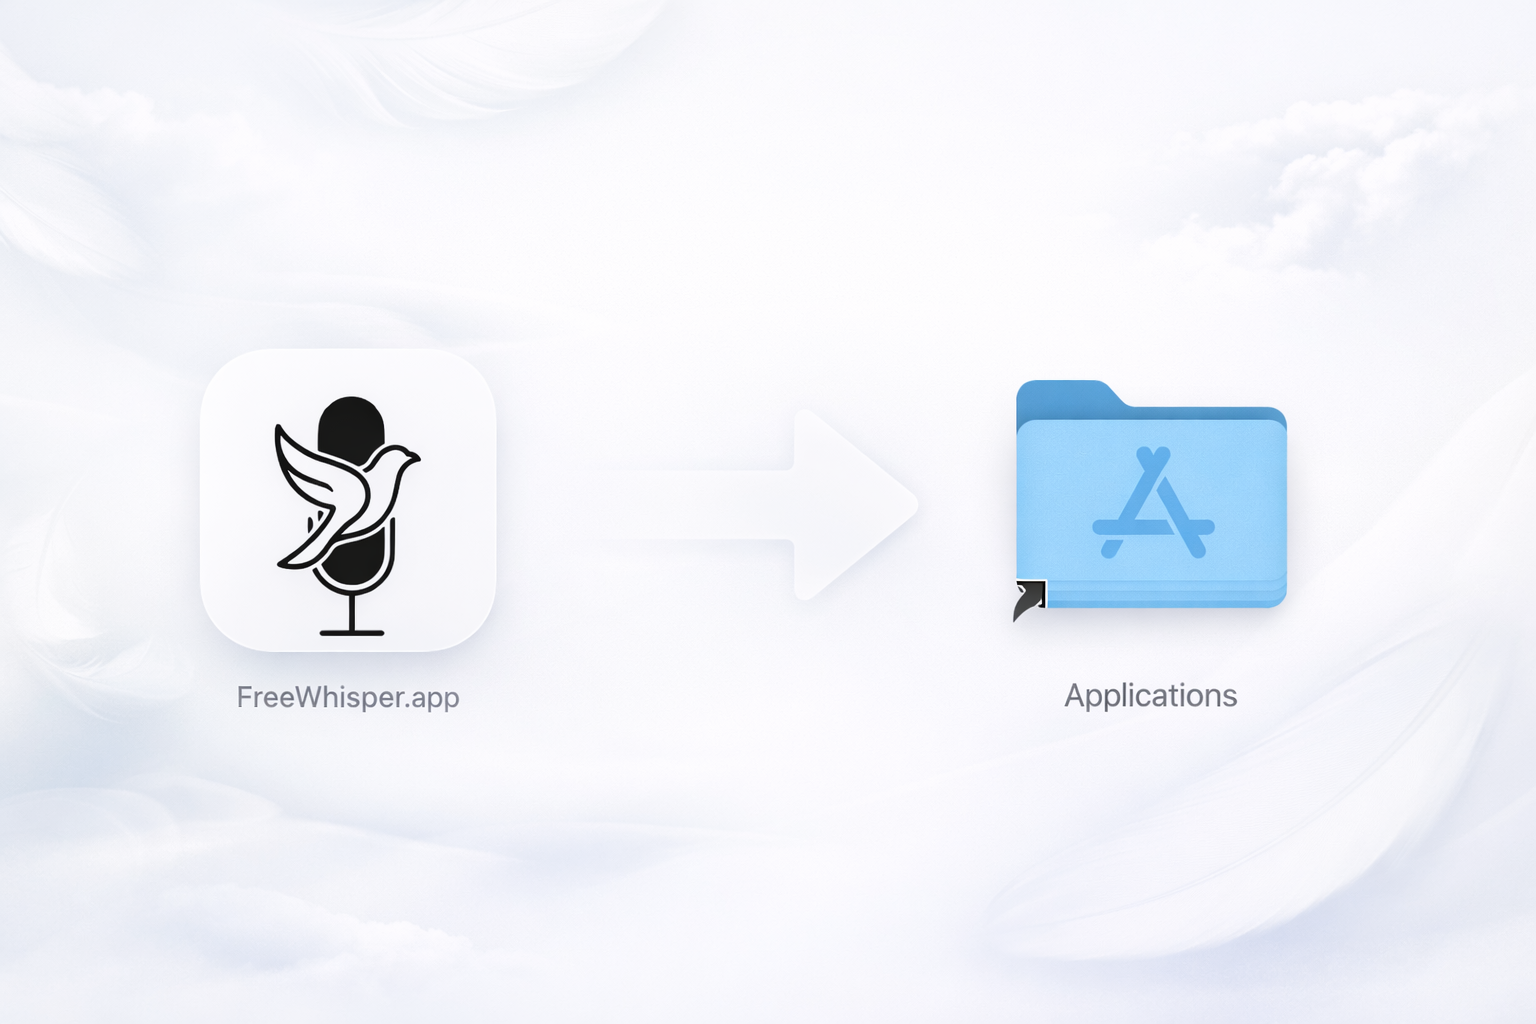
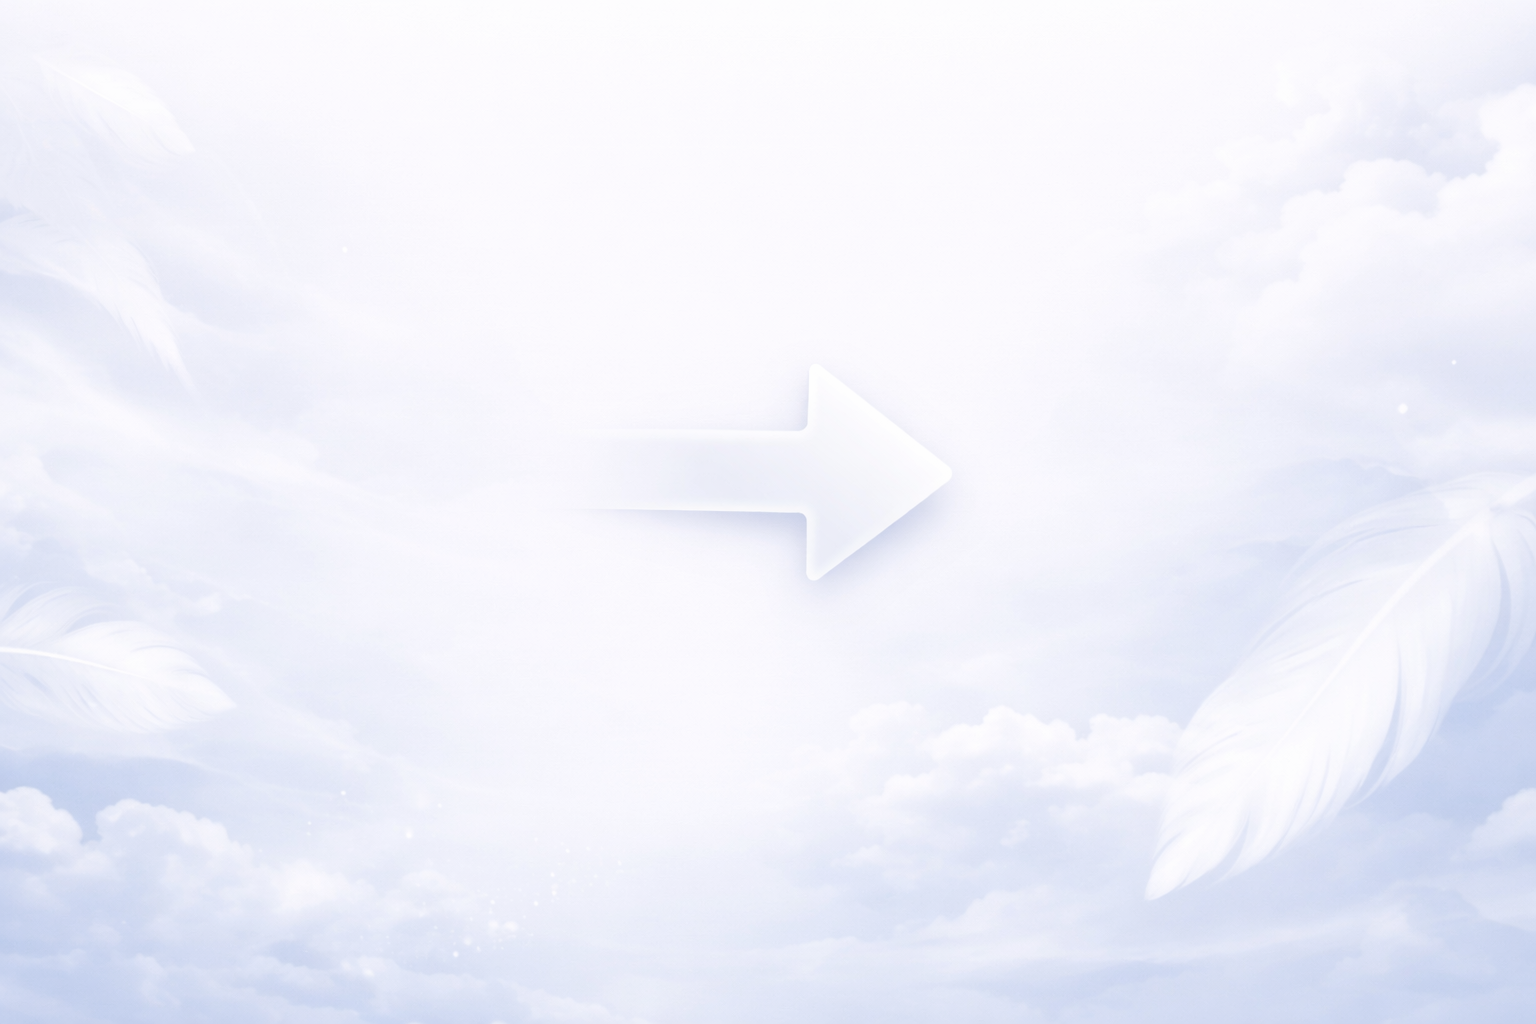
Use clean DMG artwork

diff --git a/build_dmg.py b/build_dmg.py
@@ -24,7 +24,7 @@ APP_ICON_POSITION = (230, 280)
 APPLICATIONS_ICON_POSITION = (760, 280)
 ICON_SIZE = 160
 RETINA_SCALE = 2
-CUSTOM_BACKGROUND_SOURCE = ROOT / "docs" / "assets" / "dmg-background-clean.png"
+CUSTOM_BACKGROUND_SOURCE = ROOT / "docs" / "assets" / "image1.png"
 BUNDLE_CANDIDATES = (
     BUNDLE_PATH,
     Path("/Applications") / f"{APP_NAME}.app",
@@ -68,16 +68,30 @@ def default_background_image() -> Image.Image:
 
     arrow_layer = Image.new("RGBA", (width, height), (0, 0, 0, 0))
     arrow_draw = ImageDraw.Draw(arrow_layer)
+    arrow_center_x = ((APP_ICON_POSITION[0] + APPLICATIONS_ICON_POSITION[0]) // 2) * RETINA_SCALE
+    arrow_center_y = APP_ICON_POSITION[1] * RETINA_SCALE
+    body_left = arrow_center_x - 210
+    body_top = arrow_center_y - 54
+    body_right = arrow_center_x + 40
+    body_bottom = arrow_center_y + 54
+    head_base_x = arrow_center_x - 12
+    head_tip_x = arrow_center_x + 240
+    head_half_height = 132
+
     arrow_draw.rounded_rectangle(
-        (312, 228, 592, 328),
-        radius=46,
-        fill=(222, 228, 236, 255),
+        (body_left, body_top, body_right, body_bottom),
+        radius=48,
+        fill=(226, 232, 240, 242),
     )
     arrow_draw.polygon(
-        ((540, 170), (750, 280), (540, 390)),
-        fill=(222, 228, 236, 255),
+        (
+            (head_base_x, arrow_center_y - head_half_height),
+            (head_tip_x, arrow_center_y),
+            (head_base_x, arrow_center_y + head_half_height),
+        ),
+        fill=(226, 232, 240, 242),
     )
-    arrow_layer = arrow_layer.filter(ImageFilter.GaussianBlur(0.4))
+    arrow_layer = arrow_layer.filter(ImageFilter.GaussianBlur(1.2))
     image.alpha_composite(arrow_layer)
 
     cloud_layer = Image.new("RGBA", (width, height), (0, 0, 0, 0))
@@ -96,38 +110,6 @@ def default_background_image() -> Image.Image:
     return image
 
 
-def soften_live_drop_targets(image: Image.Image) -> Image.Image:
-    scale_x = image.width / WINDOW_WIDTH
-    scale_y = image.height / WINDOW_HEIGHT
-
-    overlay = Image.new("RGBA", image.size, (0, 0, 0, 0))
-    draw = ImageDraw.Draw(overlay)
-
-    def center_box(center: tuple[int, int], width: int, height: int) -> tuple[int, int, int, int]:
-        cx = int(center[0] * scale_x)
-        cy = int(center[1] * scale_y)
-        half_w = int(width * scale_x / 2)
-        half_h = int(height * scale_y / 2)
-        return (cx - half_w, cy - half_h, cx + half_w, cy + half_h)
-
-    # Remove the baked text from the artwork so Finder can render the live labels
-    # cleanly, while keeping the arrow and decorative atmosphere.
-    draw.rounded_rectangle(
-        center_box((APP_ICON_POSITION[0], APP_ICON_POSITION[1] + 152), 320, 72),
-        radius=int(26 * scale_x),
-        fill=(248, 250, 253, 246),
-    )
-    draw.rounded_rectangle(
-        center_box((APPLICATIONS_ICON_POSITION[0], APPLICATIONS_ICON_POSITION[1] + 152), 300, 72),
-        radius=int(26 * scale_x),
-        fill=(248, 250, 253, 246),
-    )
-
-    overlay = overlay.filter(ImageFilter.GaussianBlur(int(14 * scale_x)))
-    image.alpha_composite(overlay)
-    return image
-
-
 def create_background_image(path: Path) -> None:
     if CUSTOM_BACKGROUND_SOURCE.exists():
         image = Image.open(CUSTOM_BACKGROUND_SOURCE).convert("RGBA")
@@ -137,7 +119,6 @@ def create_background_image(path: Path) -> None:
             method=Image.LANCZOS,
             centering=(0.5, 0.5),
         )
-        image = soften_live_drop_targets(image)
     else:
         image = default_background_image()
 
